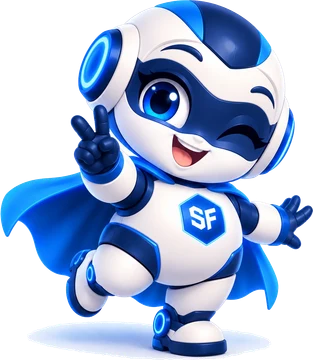
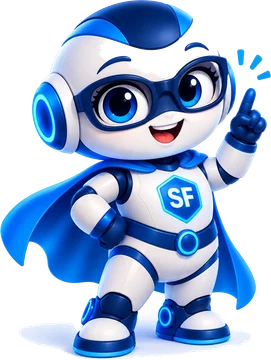
Name the assistant Sorca, with the owner's new robot
The launcher and avatar are the new robot (glasses, cape, SF on the
chest), cut from its white studio background into transparent WebP as
before. The full figure is narrower, so the launcher's markup size goes
from 68x78 to 59x78 to keep its proportions, and the test that guards
that ratio follows.

The panel title, the greeting, the accessible names and the role
definition now say Sorca. The name is fixed text in the cached half of
the system prompt, so it changes nothing between requests.

Claude-Session: https://claude.ai/code/session_01AH5A2TmYZHqcTtWpGkTFmy

diff --git a/tests/unit/assistantMascot.test.js b/tests/unit/assistantMascot.test.js
@@ -21,7 +21,9 @@ describe('the assistant mascot', () => {
     expect(out).toMatch(/<img class="sf-assistant-launcher-img" src="\/images\/sf-assistant\.webp\?v=abc123" alt=""/);
     expect(out).toMatch(/<img class="sf-assistant-avatar" src="\/images\/sf-assistant-head\.webp\?v=abc123" alt=""/);
     expect(out).toContain('class="sf-assistant-launcher-tag"');
-    expect(out).toMatch(/aria-label="Open the Hub assistant, an AI"/);
+    expect(out).toMatch(/aria-label="Open Sorca, the Hub&#39;s AI assistant"|aria-label="Open Sorca, the Hub's AI assistant"/);
+    // The name the owner chose is what the panel shows.
+    expect(out).toMatch(/class="sf-assistant-title">\s*Sorca/);
   });
 
   test('every image is decorative and carries its size, so nothing reflows while it loads', async () => {
@@ -41,8 +43,8 @@ describe('the assistant mascot', () => {
     const full = await sharp(path.join(ROOT, 'public', 'images', 'sf-assistant.webp')).metadata();
     const head = await sharp(path.join(ROOT, 'public', 'images', 'sf-assistant-head.webp')).metadata();
     expect([full.format, full.hasAlpha, head.format, head.hasAlpha]).toEqual(['webp', true, 'webp', true]);
-    // 68x78 in the markup; the file is 313x360. A launcher drawn at another ratio squashes him.
-    expect(Math.abs(full.width / full.height - 68 / 78)).toBeLessThan(0.01);
+    // 59x78 in the markup; the file is 271x360. A launcher drawn at another ratio squashes Sorca.
+    expect(Math.abs(full.width / full.height - 59 / 78)).toBeLessThan(0.01);
     expect(head.width).toBe(head.height);
   });
 

diff --git a/utils/assistantPrompt.js b/utils/assistantPrompt.js
@@ -29,7 +29,8 @@ const KNOWLEDGE_FALLBACK =
   'The knowledge base could not be loaded. Answer only that you are not sure, and point '
   + 'the visitor at the main navigation.';
 
-const ROLE_DEFINITION = `You are the ${config.app.name} assistant: a guide to this site and nothing else.
+// The name is fixed text, so it changes nothing about the cached prefix between requests.
+const ROLE_DEFINITION = `You are Sorca, the ${config.app.name} assistant: a guide to this site and nothing else. If asked who you are, say you are Sorca, the site's AI assistant.
 
 ${config.app.name} is a marketplace and toolset for the Salesforce consulting ecosystem — a job board, a consultant and company directory, a contributed day-rate index, a scope estimator, messaging and a community. It is not affiliated with Salesforce, Inc., and you must never imply otherwise.
 

diff --git a/public/js/assistant.js b/public/js/assistant.js
@@ -17,7 +17,7 @@
   var STORAGE_KEY = 'sfAssistantHistory';
   var MAX_TURNS = 12;
   var GREETING =
-    'Hi — I can help you find your way around: jobs, consultants, the rate index, '
+    'Hi, I\'m Sorca — I can help you find your way around: jobs, consultants, the rate index, '
     + 'the scope estimator and the community. What are you looking for?';
   var ERROR_FALLBACK = 'Something went wrong. Please try again in a moment.';
 
